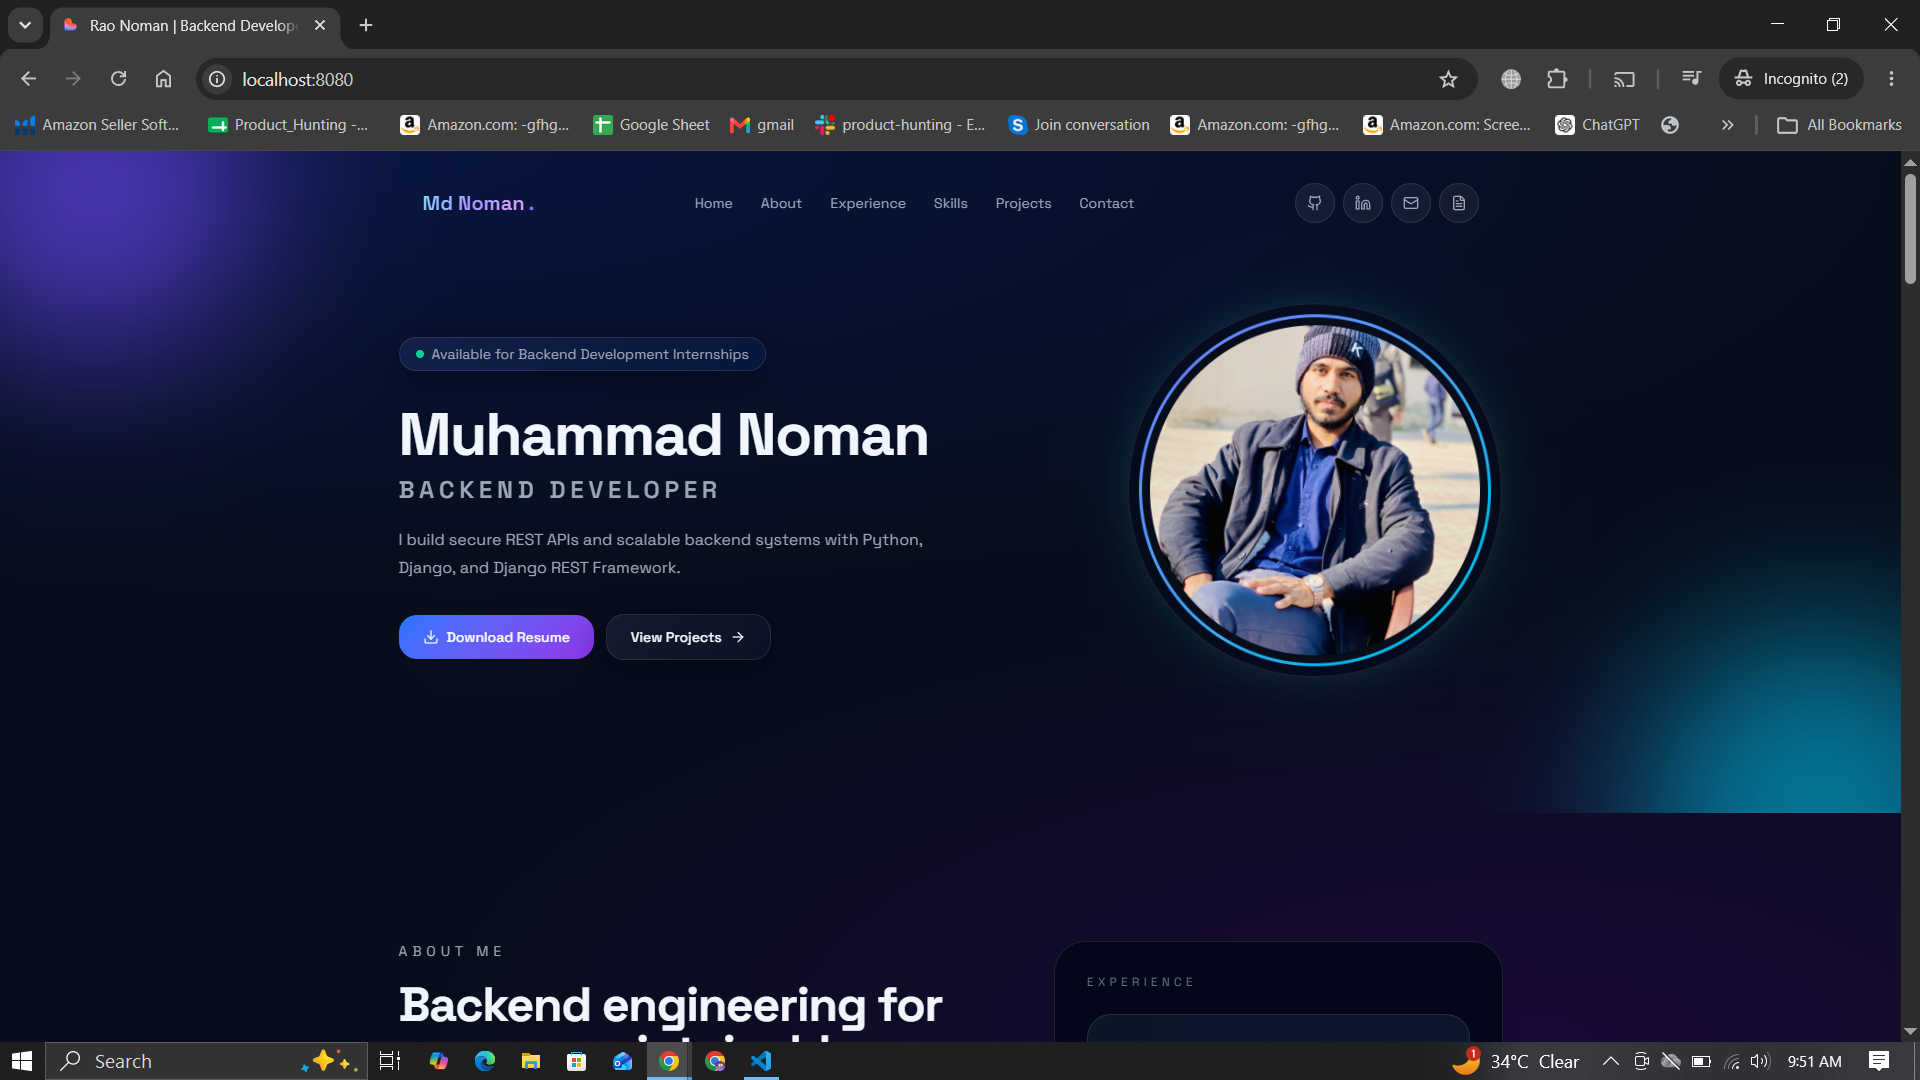
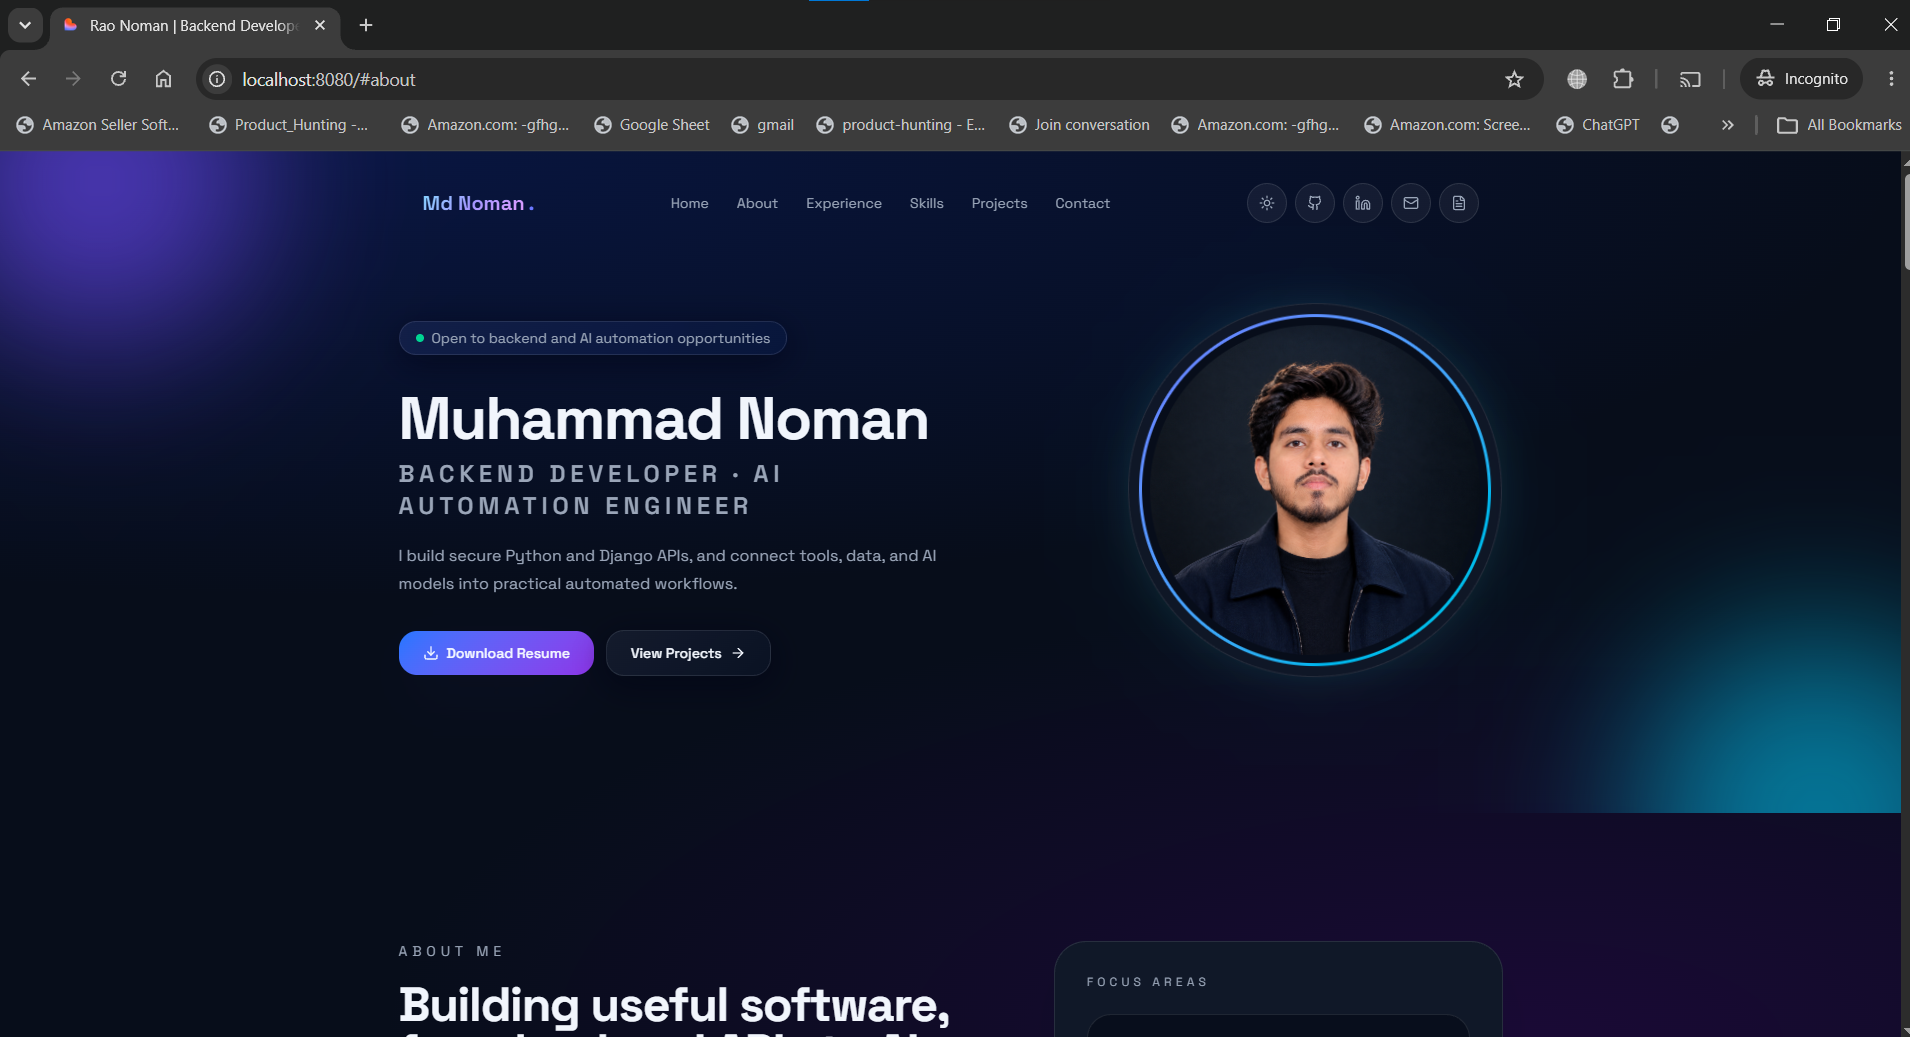
Updated Portfolio Images

diff --git a/frontend/src/components/portfolio/Hero.tsx b/frontend/src/components/portfolio/Hero.tsx
@@ -1,6 +1,6 @@
 import { motion } from "framer-motion";
 import { ArrowRight, Download } from "lucide-react";
-import profile from "@/assets/rao-profile.jpg";
+import profile from "@/assets/rao-profile.png";
 
 export function Hero() {
   return (
@@ -27,7 +27,7 @@ export function Hero() {
             <h1 className="mt-8 text-4xl font-bold leading-[1.05] tracking-tight sm:text-5xl lg:text-6xl">
               <span className="block text-foreground">Muhammad Noman</span>
               <span className="mt-2 block text-lg font-semibold tracking-[0.2em] text-muted-foreground uppercase sm:text-xl lg:text-2xl">
-                Backend Developer · AI Automation
+                Backend Developer · AI Automation Engineer
               </span>
             </h1>
 
@@ -76,7 +76,7 @@ export function Hero() {
                       alt="Rao Noman — Backend Developer"
                       width={360}
                       height={360}
-                      className="h-[260px] w-[260px] rounded-full object-cover object-center sm:h-[300px] sm:w-[300px] lg:h-[330px] lg:w-[330px]"
+                      className="h-[260px] w-[260px] rounded-full object-cover object-[center_18%] sm:h-[300px] sm:w-[300px] lg:h-[330px] lg:w-[330px]"
                     />
                   </div>
                 </div>

diff --git a/frontend/src/components/portfolio/Skills.tsx b/frontend/src/components/portfolio/Skills.tsx
@@ -20,7 +20,14 @@ const groups = [
     title: "AI & Automation",
     items: [
       "n8n",
+      "Make.com",
+      "Zapier",
+      "AI Agents",
+      "AI Chatbots",
       "AI Workflows",
+      "Workflow Automation",
+      "Webhook Automation",
+      "Prompt Engineering",
       "Claude",
       "OpenAI",
       "Gemini",
@@ -57,7 +64,8 @@ export function Skills() {
             Skills & <span className="gradient-text">Technologies</span>.
           </h2>
           <p className="mt-4 text-muted-foreground leading-relaxed">
-            Backend engineering, AI integrations, and automation tools for building connected, reliable workflows.
+            Backend engineering, AI integrations, and automation tools for building connected,
+            reliable workflows.
           </p>
         </div>
 

diff --git a/frontend/src/components/portfolio/Projects.tsx b/frontend/src/components/portfolio/Projects.tsx
@@ -46,8 +46,8 @@ const projects: ProjectItem[] = [
     icon: Workflow,
     title: "AI Lead Scoring & Automation",
     description:
-      "A Django REST API receives new leads and an n8n workflow uses an AI model to score buying intent, classify leads as hot, warm, or cold, and route them to the appropriate follow-up steps.",
-    tech: ["Python", "Django REST Framework", "n8n", "OpenAI", "Webhooks", "Gmail"],
+      "A JavaScript-powered lead intake flow sends new leads to n8n, where an AI model scores buying intent, classifies leads as hot, warm, or cold, and routes them to the appropriate follow-up steps.",
+    tech: ["Java Script", "n8n", "OpenAI", "Webhooks", "Gmail"],
     repo: null,
     demoUrls: [
       "https://www.loom.com/share/6a3430a82a6f483db761d5614b82ca92",
